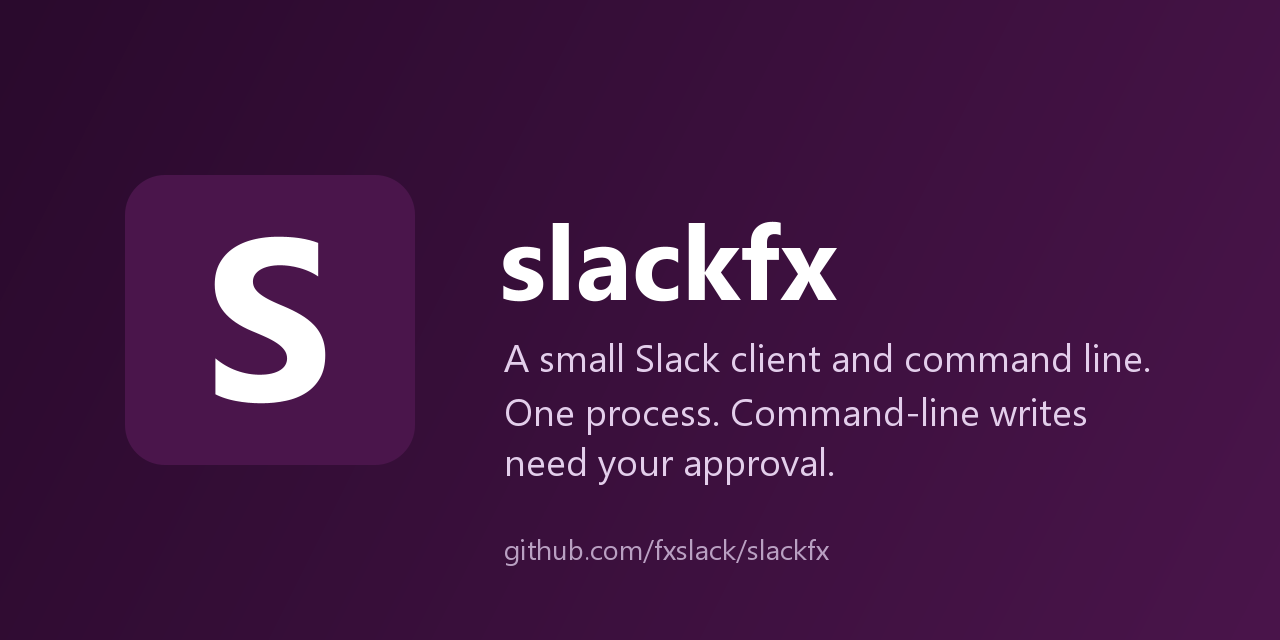
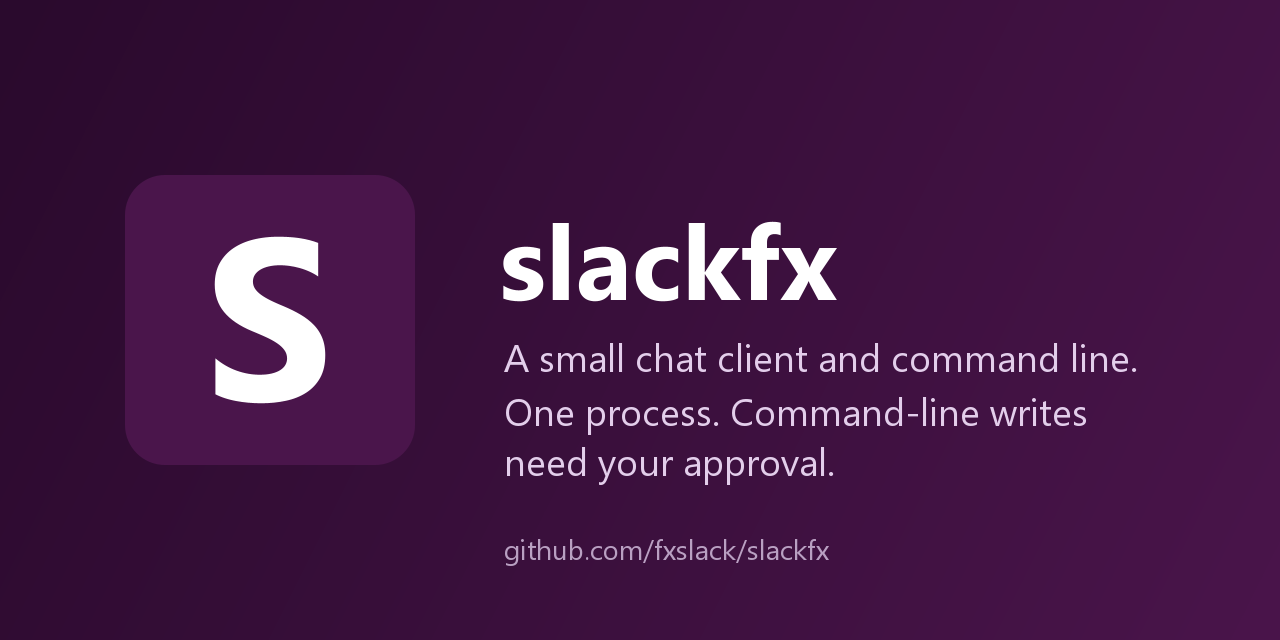
Nothing that changes anything goes out without approval; plainer wording; 0.2.2
Every method that is not a known read now goes through the running client's approval:
chat.*, reactions, mark, scheduling and drafts, and anything sent with raw. With no client
running a write is refused; require_approval false in app-config.json opts out. The
public text says chat client instead of naming the service, apart from the not-affiliated line.

Changed region(s): [[0.5, 0.5312, 0.9062, 0.5938]]

diff --git a/core/src/main/java/fxslack/core/Api.java b/core/src/main/java/fxslack/core/Api.java
@@ -19,7 +19,24 @@ public final class Api {
 
     public Api(SlSession s) { this.s = s; }
 
+    /// Methods that only read. Everything else changes something in the workspace and must be approved (Cx.write).
+    static final Set<String> READS = Set.of("api.test", "auth.test", "bookmarks.list", "bots.info", "chat.getPermalink",
+        "chat.scheduledMessages.list", "conversations.history", "conversations.info", "conversations.list", "conversations.members",
+        "conversations.open", "conversations.replies", "dnd.info", "drafts.list", "emoji.list", "files.info", "files.list", "pins.list",
+        "reactions.get", "reactions.list", "reminders.info", "reminders.list", "search.all", "search.files", "search.messages",
+        "stars.list", "team.info", "usergroups.list", "usergroups.users.list", "users.conversations", "users.getPresence", "users.info",
+        "users.list", "users.lookupByEmail", "users.profile.get");
+
+    public static boolean isRead(String method) { return READS.contains(method); }
+
+    /// A read. A method that is not a known read is refused here: it has to go through Cx.write, which asks a person first.
     public JsonNode call(String method, Map<String, ?> params) {
+        if (!isRead(method)) throw new SlException(method + " changes things in the workspace, so it needs approval: it goes through a running slackfx (Cx.write)");
+        return send(method, params);
+    }
+
+    /// The call itself, with no check. Only for a write that a person has approved, or one made from the slackfx window.
+    public JsonNode send(String method, Map<String, ?> params) {
         if (Demo.on()) return Demo.call(method, params);
         for (var attempt = 0; ; attempt++) {
             var res = post(method, params);
@@ -93,8 +110,8 @@ public final class Api {
         return switch (err) {
             case "invalid_auth", "not_authed", "token_revoked", "account_inactive" ->
                 " -- the stored token no longer works; for the app token run 'slackfx auth --app', for a browser session log in and run 'slackfx auth'";
-            case "missing_scope" -> " -- the token was not granted this scope; add it to the Slack app's manifest and reinstall, or use a browser session";
-            case "not_allowed_token_type" -> " -- Slack does not accept this kind of token for this method";
+            case "missing_scope" -> " -- the token was not granted this scope; add it to the app's manifest and reinstall, or use a browser session";
+            case "not_allowed_token_type" -> " -- the service does not accept this kind of token for this method";
             default -> "";
         };
     }

diff --git a/app/src/main/java/fxslack/slackfx/Server.java b/app/src/main/java/fxslack/slackfx/Server.java
@@ -2,6 +2,7 @@ package fxslack.slackfx;
 
 import com.sun.net.httpserver.HttpExchange;
 import com.sun.net.httpserver.HttpServer;
+import fxslack.core.Api;
 import fxslack.core.AppLink;
 import fxslack.core.Cx;
 import fxslack.core.Demo;
@@ -14,7 +15,6 @@ import static fxslack.core.Out.M;
 /// ~/fxslack/slackfx/run/app.json. Reads (status) and, from Stage C, gated writes.
 public final class Server {
 
-    static final Set<String> WRITES = Set.of("chat.postMessage", "chat.update", "chat.delete", "reactions.add", "reactions.remove");
 
     final Cx cx;
     final Runnable show;
@@ -76,7 +76,7 @@ public final class Server {
     String write(HttpExchange ex) throws IOException {
         var body = M.readTree(ex.getRequestBody().readAllBytes());
         var method = body.path("method").asText();
-        if (!WRITES.contains(method)) throw new IllegalArgumentException("not a gated write method: " + method);
+        if (Api.isRead(method)) throw new IllegalArgumentException(method + " only reads: it needs no approval, call it directly");
         @SuppressWarnings("unchecked")
         Map<String, Object> params = M.convertValue(body.path("params"), Map.class);
         Log.info("write request: " + method + " -> " + params.getOrDefault("channel", "?"));
@@ -84,7 +84,7 @@ public final class Server {
             Log.info("write denied by user: " + method);
             throw new Denied();
         }
-        var r = cx.api.call(method, params);
+        var r = cx.api.send(method, params);
         Log.info("write approved and done: " + method);
         return r.toString();
     }
@@ -100,7 +100,11 @@ public final class Server {
             case "chat.delete" -> "Delete your message in " + ch + " (ts " + p.get("ts") + ")";
             case "reactions.add" -> "Add reaction :" + p.get("name") + ": in " + ch + " (ts " + p.get("timestamp") + ")";
             case "reactions.remove" -> "Remove reaction :" + p.get("name") + ": in " + ch + " (ts " + p.get("timestamp") + ")";
-            default -> method + " " + p;
+            case "conversations.mark" -> "Mark " + ch + " as read, up to ts " + p.get("ts") + " (this changes your unread state)";
+            case "chat.scheduleMessage", "drafts.create" -> "Schedule a message in " + (p.containsKey("destinations") ? "the destination below" : ch)
+                + " (it is sent later, as " + cx.session.userName() + "):\n\n" + p;
+            case "drafts.delete" -> "Cancel a scheduled message (draft " + p.get("draft_id") + ")";
+            default -> "Call " + method + " (it changes things in the workspace) with:\n\n" + p;
         };
     }
 

diff --git a/app/src/main/java/fxslack/slackfx/cmd/AuthVerb.java b/app/src/main/java/fxslack/slackfx/cmd/AuthVerb.java
@@ -6,7 +6,7 @@ import fxslack.core.*;
 
 import static fxslack.core.Out.line;
 
-@Command(name = "auth", description = {"Store a Slack account. By default reads the session(s) out of a logged-in browser tab.",
+@Command(name = "auth", description = {"Store an account. By default reads the session(s) out of a logged-in browser tab.",
     "--app imports the durable app user-token (xoxp-) from app-config.json instead: no browser, no cdpgate, no expiry.",
     "Browser capture goes through cdpgate (no debug port): the first run asks for approval in cdpgate's window.",
     "For browser capture, open https://app.slack.com in the profile first; every workspace it is signed in to is stored."})
@@ -15,7 +15,7 @@ public final class AuthVerb implements Runnable {
     @Option(names = "--app", description = "Import the durable app user-token (xoxp-) from app-config.json; no browser needed. Preferred.")
     boolean app;
 
-    @Option(names = "--profiles", split = ",", description = "Browser profile(s) holding the Slack tab, by name or folder (cdpg profiles lists them)")
+    @Option(names = "--profiles", split = ",", description = "Browser profile(s) holding the workspace tab, by name or folder (cdpg profiles lists them)")
     java.util.List<String> profiles;
 
     @Option(names = "--team", description = "Only this workspace (fragment of its name, domain or T-id)")

diff --git a/core/src/main/java/fxslack/core/Cx.java b/core/src/main/java/fxslack/core/Cx.java
@@ -24,7 +24,7 @@ public final class Cx {
 
     public static Cx open(String account) {
         var s = Store.loadSessions().resolve(account).orElseThrow(() -> new SlException(
-            "no saved account -- log in to Slack in the browser, then run 'slackfx auth'"));
+            "no saved account -- log in to your workspace in the browser, then run 'slackfx auth'"));
         return new Cx(s);
     }
 
@@ -37,9 +37,10 @@ public final class Cx {
 
     public JsonNode write(String method, Map<String, Object> params) {
         var app = AppLink.live();
-        if (app == null && Store.appConfig().path("require_approval").asBoolean(false))
-            throw new SlException("writes need slackfx running, to approve them (require_approval is on in app-config.json)");
-        if (app == null) return api.call(method, params);
+        if (app == null && Store.requireApproval())
+            throw new SlException("writes need a person to approve them: start slackfx (no arguments), then run this again."
+                + " (\"require_approval\": false in app-config.json lets writes go straight through.)");
+        if (app == null) return api.send(method, params);
         Out.err("waiting for approval in the slackfx window (F2 to approve)...");
         return GateClient.write(app, method, params);
     }

diff --git a/core/src/main/java/fxslack/core/Gate.java b/core/src/main/java/fxslack/core/Gate.java
@@ -63,7 +63,7 @@ public final class Gate implements AutoCloseable {
         var tabs = pageTargets();
         return tabs.stream().filter(t -> t.path("url").asText().contains("app.slack.com")).findFirst()
             .or(() -> tabs.stream().findFirst())
-            .orElseThrow(() -> new SlException("no Slack tab in the approved profile(s) -- open and log in at"
+            .orElseThrow(() -> new SlException("no workspace tab in the approved profile(s) -- open and log in at"
                 + " https://app.slack.com in that browser profile, or name it with --profiles (cdpg profiles lists them)"));
     }
 
@@ -85,7 +85,7 @@ public final class Gate implements AutoCloseable {
             if (res.has("error")) throw new SlException(method + " failed: " + res.path("error").path("message").asText());
             return res.path("result");
         } catch (TimeoutException e) {
-            throw new SlException(method + " got no answer in 20 s -- if the Slack tab is in the background, click it once"
+            throw new SlException(method + " got no answer in 20 s -- if the tab is in the background, click it once"
                 + " (Vivaldi does not load restored background tabs until they are shown) and retry");
         } catch (SlException e) {
             throw e;

diff --git a/core/src/main/java/fxslack/core/Auth.java b/core/src/main/java/fxslack/core/Auth.java
@@ -27,8 +27,8 @@ public final class Auth {
             p.putArray("urls").add("https://app.slack.com/").add("https://slack.com/");
             cookies = cookies(gate.call(sid, "Network.getCookies", p));
         }
-        if (config.isBlank()) throw new SlException("the Slack tab holds no workspace config -- log in at https://app.slack.com in that profile");
-        if (!cookies.containsKey("d")) throw new SlException("no 'd' cookie for slack.com in that profile -- log in to Slack there first");
+        if (config.isBlank()) throw new SlException("the tab holds no workspace config -- log in at https://app.slack.com in that profile");
+        if (!cookies.containsKey("d")) throw new SlException("no 'd' cookie for slack.com in that profile -- log in there first");
         return sessions(config, cookies, page, only);
     }
 
@@ -48,7 +48,7 @@ public final class Auth {
                 }
             });
         } catch (Exception e) {
-            throw new SlException("cannot read the Slack workspace config", e);
+            throw new SlException("cannot read the workspace config", e);
         }
         if (out.isEmpty()) throw new SlException("no usable workspace session found in that profile");
         return out;

diff --git a/core/src/main/java/fxslack/core/Drafts.java b/core/src/main/java/fxslack/core/Drafts.java
@@ -18,7 +18,7 @@ public final class Drafts {
         var dest = M.createObjectNode().put("channel_id", channelId);
         if (threadTs != null) dest.put("thread_ts", threadTs);
         try {
-            return cx.api.call("drafts.create", "client_msg_id", UUID.randomUUID().toString(),
+            return cx.write("drafts.create", "client_msg_id", UUID.randomUUID().toString(),
                 "blocks", M.createArrayNode().add(block).toString(), "destinations", M.createArrayNode().add(dest).toString(),
                 "date_scheduled", postAt, "file_ids", "[]", "is_from_composer", false).path("draft");
         } catch (SlException e) {
@@ -36,7 +36,7 @@ public final class Drafts {
     }
 
     public static void cancel(Cx cx, JsonNode draft) {
-        cx.api.call("drafts.delete", "draft_id", draft.path("id").asText(), "client_last_updated_ts", draft.path("last_updated_ts").asText());
+        cx.write("drafts.delete", "draft_id", draft.path("id").asText(), "client_last_updated_ts", draft.path("last_updated_ts").asText());
     }
 
     /// The plain text inside a draft's rich_text blocks.

diff --git a/core/src/main/java/fxslack/core/Store.java b/core/src/main/java/fxslack/core/Store.java
@@ -23,9 +23,14 @@ public final class Store {
     /// The OAuth app's config, written once at install: holds the durable `user_token` (xoxp-) and app credentials.
     public static Path appConfigPath() { return home().resolve("app-config.json"); }
 
+    /// Writes need a person's approval unless app-config.json says "require_approval": false. Also true when there is no such file.
+    public static boolean requireApproval() {
+        return !Files.exists(appConfigPath()) || appConfig().path("require_approval").asBoolean(true);
+    }
+
     public static JsonNode appConfig() {
         var p = appConfigPath();
-        if (!Files.exists(p)) throw new SlException("no " + p + " -- the Slack app has not been set up yet");
+        if (!Files.exists(p)) throw new SlException("no " + p + " -- the app has not been set up yet");
         try {
             return JSON.readTree(p.toFile());
         } catch (Exception e) {

diff --git a/app/src/main/java/fxslack/slackfx/Cli.java b/app/src/main/java/fxslack/slackfx/Cli.java
@@ -16,9 +16,9 @@ import picocli.CommandLine.Spec;
         SendVerb.class, EditVerb.class, EditVerb.Delete.class, ReactVerb.class, FileVerb.class, ScheduledVerb.class, MembersVerb.class, MarkVerb.class, RawVerb.class,
         UpdateVerb.class
     },
-    description = {"slackfx: a small Slack client and command line, one program.",
+    description = {"slackfx: a small chat client and command line, one program. Independent project, not affiliated with Slack.",
         "With no arguments it starts the client (tray icon and window); with --background, in the tray only.",
-        "With a verb it runs the command line, with a Slack app user token or a logged-in browser session. One account per Slack login."})
+        "With a verb it runs the command line, with an app user token or a logged-in browser session. One account per login."})
 public final class Cli implements Runnable {
 
     @Spec CommandSpec spec;

diff --git a/app/src/main/java/fxslack/slackfx/Live.java b/app/src/main/java/fxslack/slackfx/Live.java
@@ -70,7 +70,7 @@ public final class Live implements WebSocket.Listener {
             var env = M.readTree(s);
             switch (env.path("type").asText()) {
                 case "hello" -> { connected = true; Log.info("socket connected (" + env.path("num_connections").asInt() + " connection(s))"); }
-                case "disconnect" -> { Log.info("socket: Slack asks to reconnect (" + env.path("reason").asText() + ")"); ws.sendClose(WebSocket.NORMAL_CLOSURE, ""); }
+                case "disconnect" -> { Log.info("socket: the service asks to reconnect (" + env.path("reason").asText() + ")"); ws.sendClose(WebSocket.NORMAL_CLOSURE, ""); }
                 case "events_api" -> {
                     ws.sendText(M.createObjectNode().put("envelope_id", env.path("envelope_id").asText()).toString(), true);
                     lastEvent = Instant.now();

diff --git a/app/src/main/java/fxslack/slackfx/cmd/RawVerb.java b/app/src/main/java/fxslack/slackfx/cmd/RawVerb.java
@@ -7,7 +7,7 @@ import fxslack.core.*;
 
 import module java.base;
 
-@Command(name = "raw", description = {"Call any Slack Web API method: slackfx raw conversations.members channel=C123 limit=50",
+@Command(name = "raw", description = {"Call any Web API method: slackfx raw conversations.members channel=C123 limit=50",
     "For anything not wrapped as its own verb yet. Prints the JSON reply."})
 public final class RawVerb implements Runnable {
 
@@ -23,6 +23,6 @@ public final class RawVerb implements Runnable {
             if (i < 1) throw new SlException("'" + kv + "' is not key=value");
             p.put(kv.substring(0, i), kv.substring(i + 1));
         });
-        Out.json(cx.api.call(method, p));
+        Out.json(Api.isRead(method) ? cx.api.call(method, p) : cx.write(method, p));
     }
 }

diff --git a/app/src/main/java/fxslack/slackfx/cmd/MarkVerb.java b/app/src/main/java/fxslack/slackfx/cmd/MarkVerb.java
@@ -19,7 +19,7 @@ public final class MarkVerb implements Runnable {
         var id = cx.channelId(channel);
         var upTo = ts != null ? Ref.ts(ts) : Ref.PERMALINK.matcher(channel).find() ? Ref.ts(channel)
             : cx.api.call("conversations.history", "channel", id, "limit", 1).path("messages").path(0).path("ts").asText();
-        cx.api.call("conversations.mark", "channel", id, "ts", upTo);
+        cx.write("conversations.mark", "channel", id, "ts", upTo);
         line("marked " + cx.channelLabel(id) + " read up to " + upTo);
     }
 }
